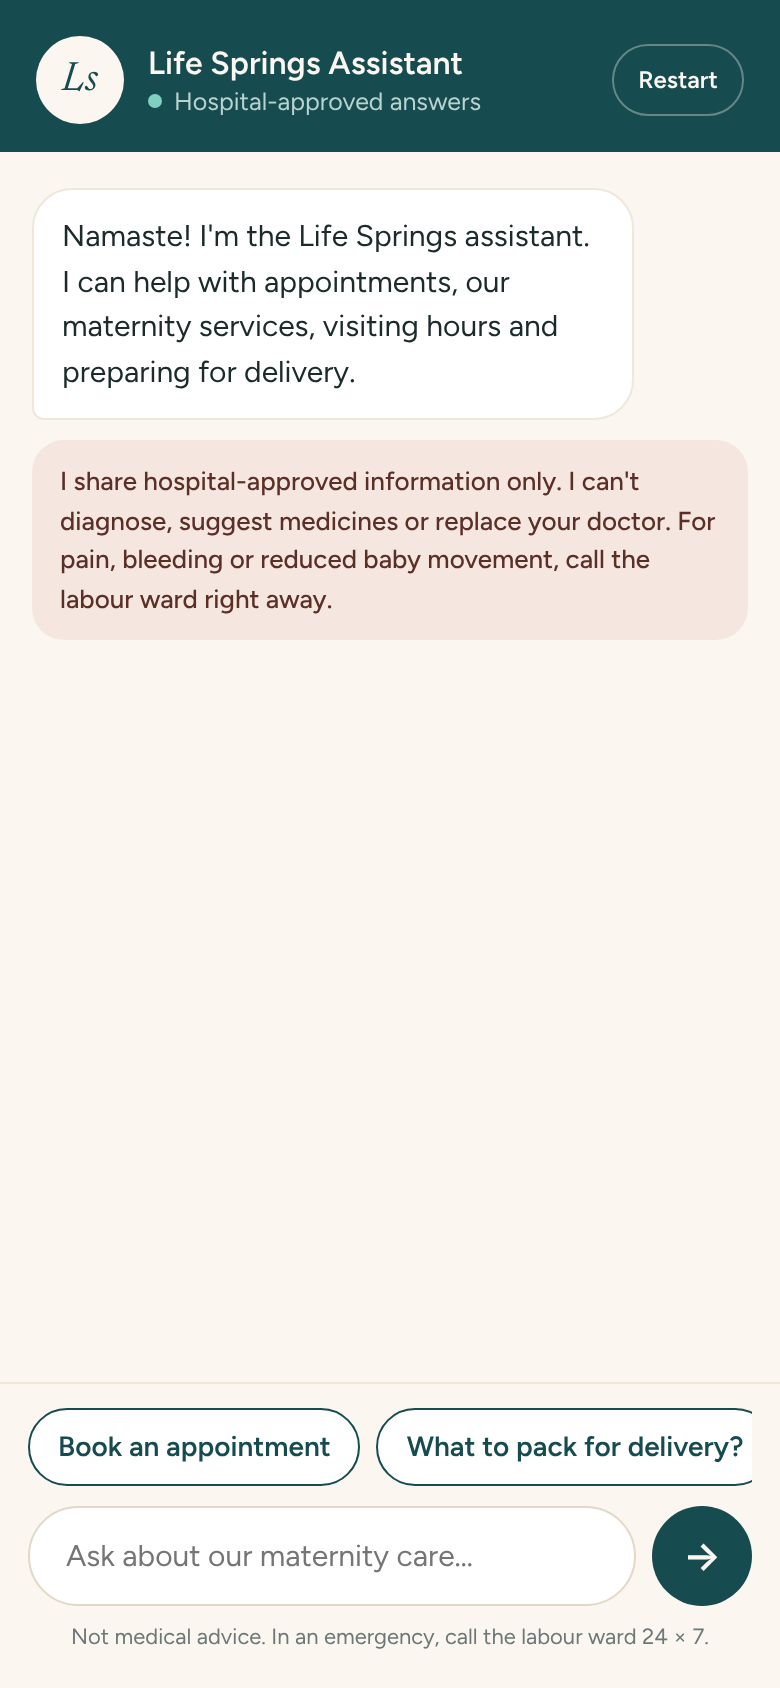
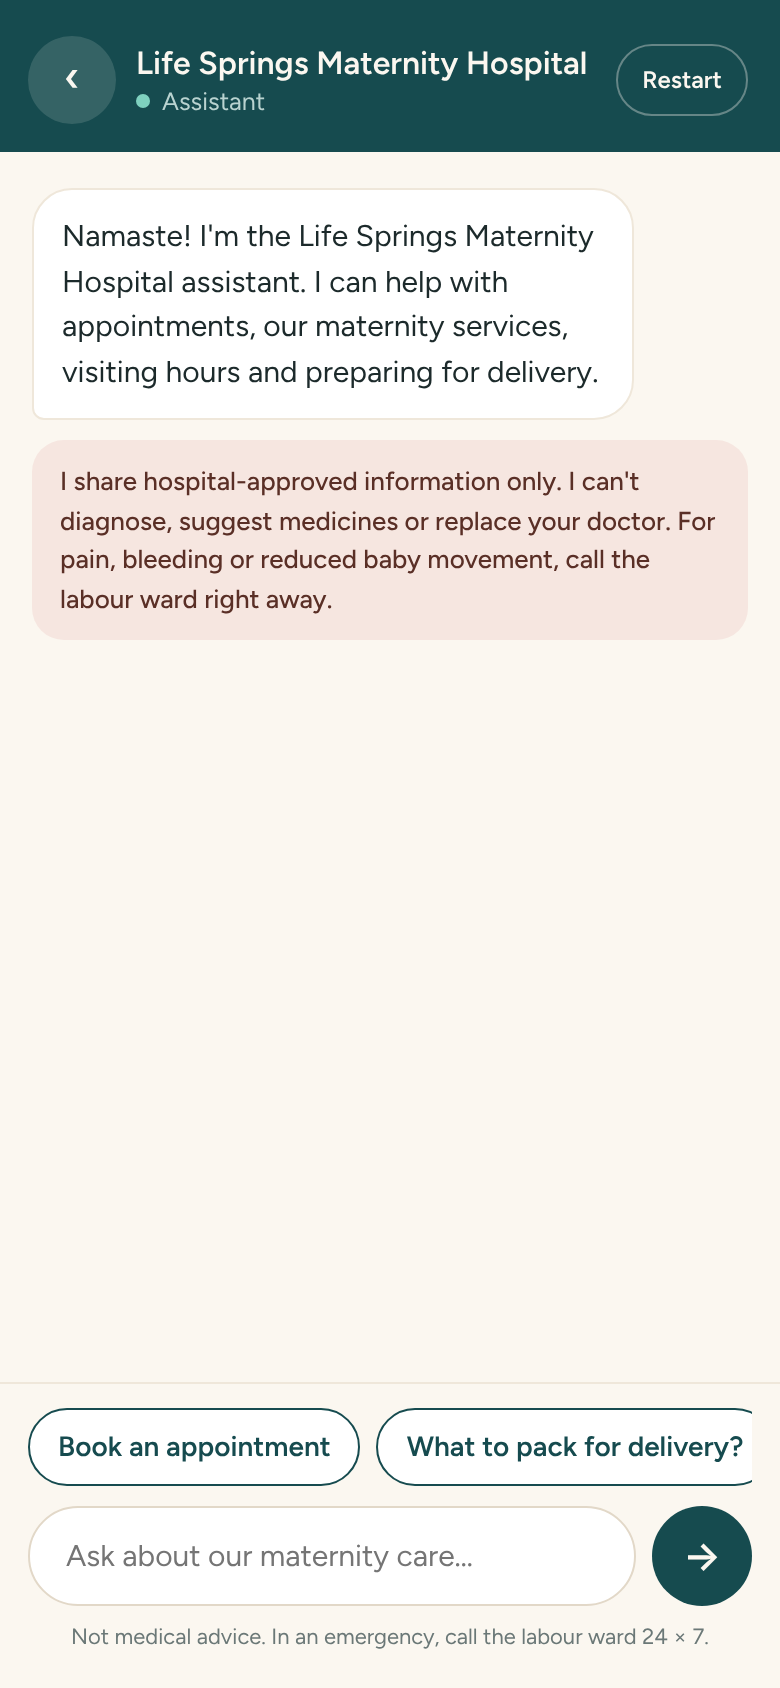
Use "Life Springs Maternity Hospital" as the name everywhere
Rename the hospital across the site: logo, page title, footer, map,
assistant, appointment consent, doctor bio, testimonials, dashboard and
WhatsApp drafts. Adjust the assistant and dashboard phone headers so
the longer name fits.

Claude-Session: https://claude.ai/code/session_01NWLtyDTtiiNpvRUc8nwXrr

Changed region(s): [[0.0923, 0.1232, 0.7692, 0.2464], [0.0308, 0.0, 0.9538, 0.0924]]

diff --git a/src/data/hospital.ts b/src/data/hospital.ts
@@ -12,8 +12,7 @@ const ADDRESS =
   'Sr No. 35, Mundhwa - Manjari Rd, above Kastura Hotel, near New Orbis School, Keshav Nagar, Mundhwa, Pune, Maharashtra 411036';
 
 export const HOSPITAL = {
-  name: 'Life Springs Hospital',
-  shortName: 'Life Springs',
+  name: 'Life Springs Maternity Hospital',
   tagline: 'Maternity · Pune',
   phoneDisplay: '070318 80088',
   phoneHref: 'tel:+917031880088',
@@ -28,7 +27,7 @@ export const HOSPITAL = {
   ],
   opdHours: 'OPD: Mon–Sat, 10am–1pm · 5pm–8pm',
   emergencyHours: 'Emergency & labour ward: 24 × 7',
-  /** Exact pin, from the hospital's Google Maps listing ("Life Springs Maternity Hospital"). */
+  /** Exact pin, from the hospital's Google Maps listing. */
   location: LOCATION,
   /** The hospital's own Google Maps share link (opens its listing). */
   mapsHref: 'https://maps.app.goo.gl/6G1mGAhUpxGDZqVLA',
@@ -48,7 +47,7 @@ export const DOCTOR = {
   speciality: 'Obstetrician & Gynaecologist · Normal delivery & high-risk pregnancy',
   quote: 'Every mother deserves time, clear answers, and a birth plan she truly understands.',
   about:
-    "Dr. Shinde believes every mother deserves time, clear answers and a birth plan she understands. He leads Life Springs' antenatal, delivery and high-risk pregnancy care.",
+    "Dr. Shinde believes every mother deserves time, clear answers and a birth plan she understands. He leads antenatal, delivery and high-risk pregnancy care at Life Springs Maternity Hospital.",
   stats: [
     { value: 'XX+', label: 'Years in practice' },
     { value: '3', label: 'Languages: मराठी, हिंदी, Eng' },
@@ -107,7 +106,7 @@ export const FEATURED_STORY = {
   quote:
     'The nurses explained everything twice, in Marathi, without ever making me feel rushed. I felt held the whole way through.',
   name: 'Snehal K.',
-  detail: 'Delivered at Life Springs, 2026',
+  detail: 'Delivered at Life Springs Maternity Hospital, 2026',
 };
 
 export const APPOINTMENT_TYPES = [

diff --git a/src/pages/Dashboard.tsx b/src/pages/Dashboard.tsx
@@ -16,7 +16,7 @@ import {
   type EnquiryStatus,
   type WhatsAppDraft,
 } from '../data/dashboard';
-import { DOCTOR } from '../data/hospital';
+import { DOCTOR, HOSPITAL } from '../data/hospital';
 import './Dashboard.css';
 
 const TABS: { label: string; filter: EnquiryStatus | null }[] = [
@@ -130,7 +130,7 @@ export function Dashboard() {
         <div className="dash__brand">
           <LogoMark size={34} tone="inverse" />
           <div>
-            <div className="dash__brand-name">Life Springs</div>
+            <div className="dash__brand-name">{HOSPITAL.name}</div>
             <div className="dash__brand-sub">Admin</div>
           </div>
         </div>
@@ -157,13 +157,13 @@ export function Dashboard() {
           <div>
             <div className="dash__date">
               <span className="only-desktop-inline">{dateLong}</span>
-              <span className="only-mobile-inline">{dateShort}</span>
+              <span className="only-mobile-inline">{HOSPITAL.name}</span>
             </div>
             <h1 className="dash__title">
               <span className="only-desktop-inline">
                 {greeting(now)}, {DOCTOR.shortName}
               </span>
-              <span className="only-mobile-inline">Today at Life Springs</span>
+              <span className="only-mobile-inline">Today, {dateShort}</span>
             </h1>
           </div>
           <div className="dash__tools only-desktop">

diff --git a/src/components/ui/Logo.tsx b/src/components/ui/Logo.tsx
@@ -1,4 +1,5 @@
 import { Link } from 'react-router-dom';
+import { HOSPITAL } from '../../data/hospital';
 import './Logo.css';
 
 type Props = {
@@ -18,12 +19,12 @@ export function LogoMark({ size = 36, tone = 'default' }: { size?: number; tone?
   );
 }
 
-export function Logo({ layout = 'stacked', caption = 'Maternity · Pune', tone = 'default', size, to = '/' }: Props) {
+export function Logo({ layout = 'stacked', caption = 'Maternity Hospital · Pune', tone = 'default', size, to = '/' }: Props) {
   return (
-    <Link to={to} className={`logo logo--${layout} logo--${tone}`} aria-label="Life Springs Hospital — home">
+    <Link to={to} className={`logo logo--${layout} logo--${tone}`} aria-label={`${HOSPITAL.name} — home`}>
       <LogoMark size={size ?? (layout === 'wide' ? 40 : 36)} tone={tone === 'inverse' ? 'inverse' : 'default'} />
       {layout === 'wide' ? (
-        <span className="logo__name">Life Springs Hospital</span>
+        <span className="logo__name">{HOSPITAL.name}</span>
       ) : (
         <span>
           <span className="logo__name">Life Springs</span>

diff --git a/src/data/dashboard.ts b/src/data/dashboard.ts
@@ -45,14 +45,14 @@ export const WHATSAPP_DRAFTS: WhatsAppDraft[] = [
     name: 'Priya Deshmukh',
     phone: '+91 98220 41736',
     tag: 'First consultation',
-    text: 'Namaste Priya ji, thank you for contacting Life Springs Hospital. Dr. Deepak Shinde can see you today between 5–8 pm. Please reply YES to confirm, or tell us a time that suits you.',
+    text: 'Namaste Priya ji, thank you for contacting Life Springs Maternity Hospital. Dr. Deepak Shinde can see you today between 5–8 pm. Please reply YES to confirm, or tell us a time that suits you.',
   },
   {
     id: 'w2',
     name: 'Rutuja Pawar',
     phone: '+91 99223 10458',
     tag: 'Follow-up',
-    text: 'Hello Rutuja ji, this is Life Springs Hospital. We tried calling about your consultation request for Thu 12 Nov. Shall we book the 11 am slot for you?',
+    text: 'Hello Rutuja ji, this is Life Springs Maternity Hospital. We tried calling about your consultation request for Thu 12 Nov. Shall we book the 11 am slot for you?',
   },
   {
     id: 'w3',

diff --git a/index.html b/index.html
@@ -4,8 +4,8 @@
     <meta charset="utf-8" />
     <meta name="viewport" content="width=device-width, initial-scale=1" />
     <meta name="theme-color" content="#164B4F" />
-    <meta name="description" content="Life Springs Hospital, Pune — gentle, expert maternity and pregnancy care. 24 × 7 labour ward and Level II NICU." />
-    <title>Life Springs Hospital · Maternity care in Pune</title>
+    <meta name="description" content="Life Springs Maternity Hospital, Pune — gentle, expert maternity and pregnancy care. 24 × 7 labour ward and Level II NICU." />
+    <title>Life Springs Maternity Hospital · Pune</title>
     <link rel="icon" href="/favicon.svg" type="image/svg+xml" />
     <link rel="preconnect" href="https://fonts.googleapis.com" />
     <link rel="preconnect" href="https://fonts.gstatic.com" crossorigin />

diff --git a/src/pages/Assistant.tsx b/src/pages/Assistant.tsx
@@ -37,10 +37,12 @@ export function Assistant() {
             <LogoMark size={40} tone="inverse" />
           </span>
           <div className="assistant__title">
-            <h1>Life Springs Assistant</h1>
+            <h1>{HOSPITAL.name}</h1>
             <p>
               <span aria-hidden="true" />
-              Hospital-approved answers
+              <span>
+                Assistant<span className="only-desktop-inline"> · hospital-approved answers</span>
+              </span>
             </p>
           </div>
           <button

diff --git a/src/pages/Appointment.tsx b/src/pages/Appointment.tsx
@@ -201,7 +201,7 @@ export function Appointment() {
               <span className={`appt__check ${consent ? 'is-on' : ''}`} aria-hidden="true">
                 {consent ? '✓' : ''}
               </span>
-              I agree to be contacted by Life Springs on call or WhatsApp about this enquiry.
+              I agree to be contacted by Life Springs Maternity Hospital on call or WhatsApp about this enquiry.
             </label>
             {errors.consent && <p className="appt__error">{errors.consent}</p>}
 

diff --git a/src/pages/Home.tsx b/src/pages/Home.tsx
@@ -182,7 +182,7 @@ export function Home() {
           <div className="visit__info">
             <h2 className="section__title">
               <span className="only-mobile-inline">Visit us</span>
-              <span className="only-desktop-inline">Visit Life Springs</span>
+              <span className="only-desktop-inline">Visit Life Springs Maternity Hospital</span>
             </h2>
             <MapEmbed className="visit__map only-mobile" />
             <address className="visit__address">

diff --git a/src/data/assistant.ts b/src/data/assistant.ts
@@ -39,7 +39,7 @@ export const initialChat = (): ChatState => ({
   messages: [
     msg(
       'bot',
-      "Namaste! I'm the Life Springs assistant. I can help with appointments, our maternity services, visiting hours and preparing for delivery.",
+      "Namaste! I'm the Life Springs Maternity Hospital assistant. I can help with appointments, our maternity services, visiting hours and preparing for delivery.",
     ),
     msg(
       'note',

diff --git a/src/pages/Assistant.css b/src/pages/Assistant.css
@@ -43,8 +43,8 @@
   display: inline-flex;
 }
 
-/* Very narrow phones: drop the logo so the title has room */
-@media (max-width: 359px) {
+/* Phones: drop the logo so the hospital name has room */
+@media (max-width: 599px) {
   .assistant__logo {
     display: none;
   }
@@ -69,7 +69,7 @@
   color: #b9d3d0;
 }
 
-.assistant__title p span {
+.assistant__title p > span:first-child {
   width: 7px;
   height: 7px;
   border-radius: 50%;

diff --git a/src/styles/tokens.css b/src/styles/tokens.css
@@ -1,4 +1,4 @@
-/* Life Springs design tokens — deep teal + warm ivory, blush accents. */
+/* Life Springs Maternity Hospital design tokens — deep teal + warm ivory, blush accents. */
 :root {
   /* Teal */
   --teal-900: #0e3538;

diff --git a/README.md b/README.md
@@ -1,6 +1,6 @@
-# Life Springs Hospital
+# Life Springs Maternity Hospital
 
-Patient website, AI enquiry assistant and owner dashboard for Life Springs Hospital, a maternity hospital in Pune.
+Patient website, AI enquiry assistant and owner dashboard for Life Springs Maternity Hospital, Pune.
 Built with React, TypeScript and Vite.
 
 ## Run it
